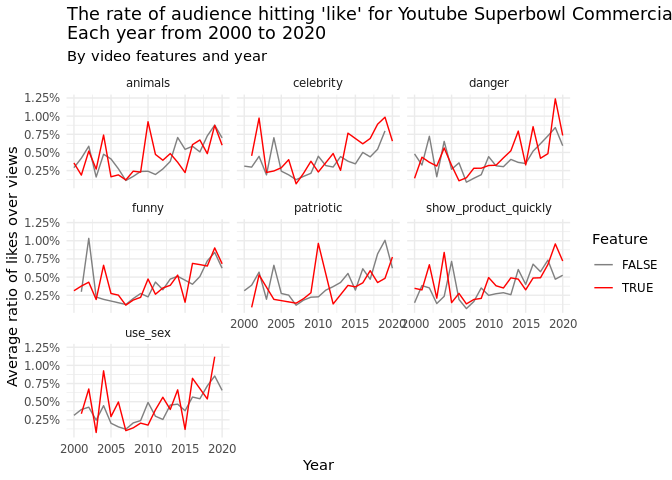
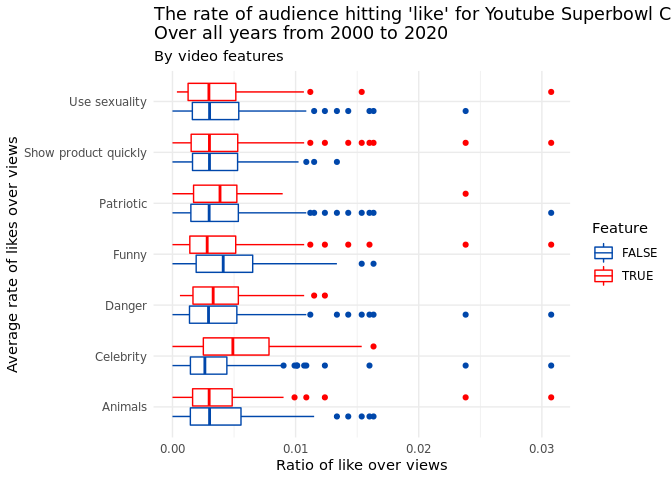
added discussion

diff --git a/extra/Yihan-plots.md b/extra/Yihan-plots.md
@@ -5,18 +5,26 @@ Yihan Shi
 
 ### Introduction
 
-Introduction to the question and what parts of the dataset are necessary
-to answer the question. Also discuss why you’re interested in this
-question.
+We want to explore the trends in how the ads change over the years in
+terms of content, audience preferences, and engagement. To explore
+audience preference and engagement, like\_count, comment\_count, and
+view\_count are used to calculate ratio of like/engagement over total
+views. We also use logical variables such as `funny`, `danger`, etc. to
+differentiate the changes over years by each feature.
 
 ### Approach
 
-Describe what types of plots you are going to make to address your
-question. For each plot, provide a clear explanation as to why this plot
-(e.g. boxplot, barplot, histogram, etc.) is best for providing the
-information you are asking about. The two plots should be of different
-types, and at least one of the two plots needs to use either color
-mapping or facets.
+First, we used a line graphs faceted by `feature`, a variable that is
+created using all logical variables in the data set. The faceted line
+graph is suitable for time-dependent changes by each categorical
+variable. Because the logical variables are either true or false, 2
+different lines in each sub-plot clearly show how the trends (audience
+preference in this case) differ if an ad contains a feature or not.
+
+We also used a stacked bar plot to see how the proportion of each
+feature change over the years.
+
+### Analysis
 
 ``` r
 library(tidyverse)
@@ -50,45 +58,17 @@ library(scales)
     ##     col_factor
 
 ``` r
-youtube <- readr::read_csv('https://raw.githubusercontent.com/rfordatascience/tidytuesday/master/data/2021/2021-03-02/youtube.csv', show_col_types = FALSE)
-
-glimpse(youtube)
+youtube <- readr::read_csv('https://raw.githubusercontent.com/rfordatascience/tidytuesday/master/data/2021/2021-03-02/youtube.csv', 
+                           show_col_types = FALSE)
 ```
-
-    ## Rows: 247
-    ## Columns: 25
-    ## $ year                      <dbl> 2018, 2020, 2006, 2018, 2003, 2020, 2020, 20…
-    ## $ brand                     <chr> "Toyota", "Bud Light", "Bud Light", "Hynudai…
-    ## $ superbowl_ads_dot_com_url <chr> "https://superbowl-ads.com/good-odds-toyota/…
-    ## $ youtube_url               <chr> "https://www.youtube.com/watch?v=zeBZvwYQ-hA…
-    ## $ funny                     <lgl> FALSE, TRUE, TRUE, FALSE, TRUE, TRUE, TRUE, …
-    ## $ show_product_quickly      <lgl> FALSE, TRUE, FALSE, TRUE, TRUE, TRUE, FALSE,…
-    ## $ patriotic                 <lgl> FALSE, FALSE, FALSE, FALSE, FALSE, FALSE, FA…
-    ## $ celebrity                 <lgl> FALSE, TRUE, FALSE, FALSE, FALSE, TRUE, TRUE…
-    ## $ danger                    <lgl> FALSE, TRUE, TRUE, FALSE, TRUE, TRUE, FALSE,…
-    ## $ animals                   <lgl> FALSE, FALSE, TRUE, FALSE, TRUE, TRUE, TRUE,…
-    ## $ use_sex                   <lgl> FALSE, FALSE, FALSE, FALSE, TRUE, FALSE, FAL…
-    ## $ id                        <chr> "zeBZvwYQ-hA", "nbbp0VW7z8w", "yk0MQD5YgV8",…
-    ## $ kind                      <chr> "youtube#video", "youtube#video", "youtube#v…
-    ## $ etag                      <chr> "rn-ggKNly38Cl0C3CNjNnUH9xUw", "1roDoK-SYqSp…
-    ## $ view_count                <dbl> 173929, 47752, 142310, 198, 13741, 23636, 30…
-    ## $ like_count                <dbl> 1233, 485, 129, 2, 20, 115, 1470, 78, 342, 7…
-    ## $ dislike_count             <dbl> 38, 14, 15, 0, 3, 11, 384, 6, 7, 0, 14, 0, 2…
-    ## $ favorite_count            <dbl> 0, 0, 0, 0, 0, 0, 0, 0, 0, 0, 0, 0, 0, 0, 0,…
-    ## $ comment_count             <dbl> NA, 14, 9, 0, 2, 13, 227, 6, 30, 0, 8, 1, 13…
-    ## $ published_at              <dttm> 2018-02-03 11:29:14, 2020-01-31 21:04:13, 2…
-    ## $ title                     <chr> "Toyota Super Bowl Commercial 2018 Good Odds…
-    ## $ description               <chr> "Toyota Super Bowl Commercial 2018 Good Odds…
-    ## $ thumbnail                 <chr> "https://i.ytimg.com/vi/zeBZvwYQ-hA/sddefaul…
-    ## $ channel_title             <chr> "Funny Commercials", "VCU Brandcenter", "Joh…
-    ## $ category_id               <dbl> 1, 27, 17, 22, 24, 1, 24, 2, 24, 24, 24, 24,…
 
 ``` r
 # create compare function for different categories
-
 create_compare <- function(varname, full_data) {
   full_data <- full_data %>% 
+    # drop N/A value for key variables 
     drop_na({{varname}}, like_count, view_count, dislike_count, comment_count) %>% 
+    # create new variables for preference, dislike, engagement, and features
     mutate(like = like_count / view_count,
            dislike = dislike_count / view_count,
            engage = comment_count / view_count,
@@ -102,13 +82,22 @@ create_compare <- function(varname, full_data) {
 (Function was written with the help of TA)
 
 ``` r
+# create a new data frame that contains key variables from above 
 all_compare <- rbind(create_compare(funny, youtube),
                      create_compare(danger, youtube),
                      create_compare(show_product_quickly, youtube),
                      create_compare(patriotic, youtube),
                      create_compare(celebrity, youtube),
                      create_compare(animals, youtube),
-                     create_compare(use_sex, youtube))
+                     create_compare(use_sex, youtube)) %>% 
+  # change variable names to be more readable
+  mutate(feature = recode(feature, 'animals' = 'Animals', 
+                          'celebrity' = 'Celebrity', 
+                          'danger' = 'Danger',
+                          'funny' = 'Funny',
+                          'patriotic' = 'Patriotic',
+                          'show_product_quickly' = 'Show product quickly',
+                          'use_sex' = 'Use sexuality'))
 ```
 
 ``` r
@@ -119,33 +108,42 @@ like_plot <- ggplot(all_compare, aes(x = like, y = feature, color = val)) +
        x = "Ratio of like over views",
        y = "Average rate of likes over views") +
   scale_color_manual("Feature", values = c("#0047AB", "#FF0000")) +
-  theme_minimal() 
+  theme_minimal()
+```
 
+``` r
 dislike_plot <- ggplot(all_compare, aes(x = dislike, y = feature, color = val)) +
-  geom_boxplot()
+  geom_boxplot(aes(color = val)) + 
+  labs(title = "The rate of audience hitting 'dislike' for Youtube Superbowl Commercials\nOver all years from 2000 to 2020",
+       subtitle = "By video features",
+       x = "Ratio of dislike over views",
+       y = "Average rate of likes over views") +
+  scale_color_manual("Feature", values = c("#0047AB", "#FF0000")) +
+  theme_minimal()
+```
 
-engage_plot <- ggplot(all_compare, aes(x = engage, y = feature, color = val)) +
-  geom_boxplot()
-
+``` r
 like_plot
 ```
 
-![](Yihan-plots_files/figure-gfm/plotting%20compare-1.png)<!-- -->
+![](Yihan-plots_files/figure-gfm/unnamed-chunk-1-1.png)<!-- -->
 
 ``` r
 dislike_plot
 ```
 
-![](Yihan-plots_files/figure-gfm/plotting%20compare-2.png)<!-- -->
+![](Yihan-plots_files/figure-gfm/unnamed-chunk-1-2.png)<!-- -->
 
 ``` r
-engage_plot
-```
-
-![](Yihan-plots_files/figure-gfm/plotting%20compare-3.png)<!-- -->
-
-``` r
+# create new dataset for facetting
 feature_over_years <- all_compare %>% 
+  mutate(feature = recode(feature, 'animals' = 'Animals', 
+                          'celebrity' = 'Celebrity', 
+                          'danger' = 'Danger',
+                          'funny' = 'Funny',
+                          'patriotic' = 'Patriotic',
+                          'show_product_quickly' = 'Show product quickly',
+                          'use_sex' = 'Use sexuality')) %>% 
   group_by(year, feature, val) %>% 
   summarise(mean_like = mean(like),
             mean_engage = mean(engage))
@@ -154,35 +152,81 @@ feature_over_years <- all_compare %>%
     ## `summarise()` has grouped output by 'year', 'feature'. You can override using the `.groups` argument.
 
 ``` r
-ggplot(feature_over_years, aes(x = year, y = mean_like)) + 
+ggplot(feature_over_years, aes(x = as.numeric(year), y = mean_like)) + 
   geom_line(aes(color = val)) + 
   labs(title = "The rate of audience hitting 'like' for Youtube Superbowl Commercials\nEach year from 2000 to 2020",
        subtitle = "By video features and year",
-       x = "Year",
+       x = "Year of Superbowl",
        y = "Average ratio of likes over views") +
-  facet_wrap(feature ~ .) + 
+  facet_wrap(~feature) +
   scale_color_manual("Feature", values = c("#808080", "#FF0000")) +
   scale_y_continuous(labels = label_percent(accuracy = NULL, scale = 100, prefix = "",
-  suffix = "%", big.mark = " ", decimal.mark = ".", trim = TRUE)) +
-  theme_minimal() 
+                                            suffix = "%", big.mark = " ", decimal.mark = ".", trim = TRUE)) +
+  scale_x_discrete(limits=c(2000,2004,2008,2012,2016,2020)) + 
+  theme_minimal() +
+  theme(axis.title.x = element_text(hjust = 0.5),
+        axis.title.y = element_text(margin = margin(r = 20),
+                                    hjust = 0.5),
+        panel.spacing = unit(1.5, "lines"),
+        legend.position = c(0.95, 0.1),
+        legend.title = element_blank())
 ```
 
-![](Yihan-plots_files/figure-gfm/unnamed-chunk-1-1.png)<!-- -->
+    ## Warning: Continuous limits supplied to discrete scale.
+    ## Did you mean `limits = factor(...)` or `scale_*_continuous()`?
+
+![](Yihan-plots_files/figure-gfm/feature_over_years-1.png)<!-- -->
 
 ``` r
-ggplot(feature_over_years, aes(x = year, y = mean_engage)) + 
+ggplot(feature_over_years, aes(x = as.numeric(year), y = mean_engage)) + 
   geom_line(aes(color = val)) + 
-  facet_wrap(feature ~ .)
+  labs(title = "The rate of audience comment for Youtube Superbowl Commercials\nEach year from 2000 to 2020",
+       subtitle = "By video features and year",
+       x = "Year of Superbowl",
+       y = "Average ratio of comments over views") +
+  facet_wrap(~feature) +
+  scale_color_manual("Feature", values = c("#808080", "#FF0000")) +
+  scale_y_continuous(labels = label_percent(accuracy = NULL, scale = 100, prefix = "",
+                                            suffix = "%", big.mark = " ", decimal.mark = ".", trim = TRUE)) +
+  scale_x_discrete(limits=c(2000,2004,2008,2012,2016,2020)) + 
+  theme_minimal() +
+  theme(axis.title.x = element_text(hjust = 0.5),
+        axis.title.y = element_text(margin = margin(r = 20),
+                                    hjust = 0.5),
+        panel.spacing = unit(1.5, "lines"),
+        legend.position = c(0.95, 0.1),
+        legend.title = element_blank())
 ```
 
-![](Yihan-plots_files/figure-gfm/unnamed-chunk-2-1.png)<!-- -->
+    ## Warning: Continuous limits supplied to discrete scale.
+    ## Did you mean `limits = factor(...)` or `scale_*_continuous()`?
 
-### Analysis
-
-provide the code that generates your plots. Use scale functions to
-provide nice axis labels and guides.
+![](Yihan-plots_files/figure-gfm/engagement_plot-1.png)<!-- -->
 
 ### Discussion
+
+First, we look at audience preference of various features in ads. From
+2000 to 2020, the ads that contain dangerous elements are getting more
+likes than ads that do not contain dangerous elements. There is no
+obvious trend that the audience strongly prefer a specific feature other
+than `danger` over the years.In certain years, audience feel strongly
+about ads that contain specific features. In 2010, ads that contain
+`animals` element are liked more than 3 times compared to ads that do
+not contain animals. Same observation is shown for ads containing
+`patriotic` element in 2010. However, from 2017 to 2020, ads that
+contain `patriotic` content become less liked. Ads that use sexuality
+are far more liked in 2004 but are less liked in 2015. In 2002, the ads
+that have no humorous element are liked almost 3 times as ads that have
+humorous element.
+
+Then, we look at what kinds of ads elicit the audience to engage by
+commenting. In general, the engagement rate is pretty low. Most ads
+receive almost no comments. However, in 2004 specifically there is are
+significant differences between engagement rate for all features. Ads
+that contain `animal`, `funny`, show product quickly, or use sexuality
+shows higher engagement compared the ads that don’t contain these
+features. On the other hand, ads that don’t contain `celebrity`,
+`patriotic`, or `danger` tend to have higher engagement rates.
 
 The year variable used here denotes the Superbowl year where the
 commercial was shown. However, some commercials have a different
